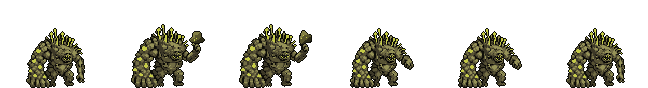
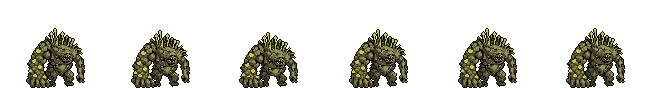
Brute throw: heave from the idle (cocked-arm throw scrapped)
Claude-Session: https://claude.ai/code/session_01Jpd5tdDJTR7BVueAYV1KDM

diff --git a/ArtSource/brute_build.py b/ArtSource/brute_build.py
@@ -128,7 +128,7 @@ def build(seq):
 SEQ = {
     "slam":  [("idle", 100, None, 0), ("dip2", 140, None, 0), ("dip3", 200, None, 0), ("dip2", 90, None, 0), ("dip6", 70, None, 0), ("dip5", 90, None, 0), ("dip3", 120, None, 0), ("dip1", 130, None, 0), ("idle", 200, None, 0)],      # squash only (deleting rows never smears): wind down, hold, drop hard
     "swipe": [("idle", 100, None, 0), ("cock", 280, None, 0), ("cock", 50, None, 0, -1), ("out", 50, None, 0, 1), ("across", 70, None, 0, 2), ("across", 130, None, 0, 2), ("across", 100, None, 0, 1), ("idle", 220, None, 0)],      # Yan: "keep that for the swipe/punch"
-    "throw": [("idle", 120, None, 0), ("cock", 260, "rock", 0), ("cock", 220, "rock", 1), ("out", 90, None, 0), ("out", 250, None, 0), ("idle", 240, None, 0)],
+    "throw": [("idle", 120, None, 0), ("dip2", 150, None, 0), ("dip4", 220, None, 0), ("dip1", 90, None, 0), ("idle", 120, None, 0), ("idle", 250, None, 0)],      # no arm pose (Yan scrapped the cocked-arm throw): he heaves, the rock appears in flight (drawn by the game)
 }
 CONTACT = {"slam": 4, "swipe": 4, "throw": 3}
 def strip_of(fr):

diff --git a/Assets/Scripts/GameData/MutantAttackData.cs b/Assets/Scripts/GameData/MutantAttackData.cs
@@ -36,7 +36,7 @@ namespace GameData
             {
                 ["slam"] = new AttackAnim { Frames = 9, W = 108, H = 88, Contact = 4, ContactMs = 530, TotalMs = 1140, PivotY = 0.18182f, Ms = new[] { 100, 140, 200, 90, 70, 90, 120, 130, 200 }, Travel = new[] { 0.0f, 0.0f, 0.0f, 0.0f, 0.0f, 0.0f, 0.0f, 0.0f, 0.0f } },
                 ["swipe"] = new AttackAnim { Frames = 8, W = 108, H = 88, Contact = 4, ContactMs = 480, TotalMs = 1000, PivotY = 0.18182f, Ms = new[] { 100, 280, 50, 50, 70, 130, 100, 220 }, Travel = new[] { 0.0f, 0.0f, 0.0f, 0.0f, 0.0f, 0.0f, 0.0f, 0.0f } },
-                ["throw"] = new AttackAnim { Frames = 6, W = 108, H = 88, Contact = 3, ContactMs = 600, TotalMs = 1180, PivotY = 0.18182f, Ms = new[] { 120, 260, 220, 90, 250, 240 }, Travel = new[] { 0.0f, 0.0f, 0.0f, 0.0f, 0.0f, 0.0f } },
+                ["throw"] = new AttackAnim { Frames = 6, W = 108, H = 88, Contact = 3, ContactMs = 490, TotalMs = 950, PivotY = 0.18182f, Ms = new[] { 120, 150, 220, 90, 120, 250 }, Travel = new[] { 0.0f, 0.0f, 0.0f, 0.0f, 0.0f, 0.0f } },
             },
         };
     }

diff --git a/ArtSource/WORK_LOG.md b/ArtSource/WORK_LOG.md
@@ -5876,3 +5876,4 @@ Built from what works (`brute_build.py`): slam = idle, wind-up, slam hit + dust;
 **Brute: punch kept, slam reworked as a stomp (2026-11-13).** Yan: the swipe made of his cocked-arm, arm-out and arm-across poses "looks decent ... kind of a punch now", keep it (contact frame 4). The slam from his two slam poses "does not read well", in-betweens (crouch, held top, recoil) did not fix it ("I think the stills are the problem"), "we'll need to rework it, probably fully", then chose option 1: a STOMP made only of his idle: crouch (idle squashed at the waist, `dip`), rear up (idle stretched at the waist, `stretch`), crash down, recoil, with the code-drawn dust ring; 10 frames, contact (damage + knockdown) at frame 5, 730 ms. The slam poses stay in `mutants_anim/brute_poses/` for a later redo (a two-fist overhead smash is the idea, new poses to be generated). `dotnet /tmp/test.dll dungeons` passes; Unity not run.
 
 **Brute art parked (2026-11-13).** The stretching stomp smeared the limbs ("he do be stretching, scrap that"), the squash-only version "doesn't work, there's no actual movement". The slam is left as the squash placeholder (9 frames, contact 530 ms, dust ring, knockdown); the idea for a real one is a two-fist overhead smash from newly generated poses. What is in the game for the Brute: new idle (stand sprite), simple walk, punch (cocked arm, arm out, arm across; contact 480 ms), throw (cocked arm with the code-drawn rock, arm out; contact 600 ms), the squash slam; all rules, the boulder and the co-op replay are wired and harness-checked. Not run in Unity.
+**Brute throw (2026-11-13).** Yan scrapped the cocked-arm throw ("doesn't look good"). It is now a plain heave from his idle (squat 2-4 rows, rise), contact (the rock leaves) at frame 3, 490 ms... see the export line; the rock is only drawn in flight by the game (`CombatFxView.Acid.cs`). The cocked-arm and arm-out poses remain used by the punch.
